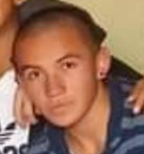
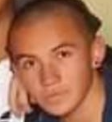
Add new animations and sounds

diff --git a/src/app/teams/teams.page.html b/src/app/teams/teams.page.html
@@ -1,11 +1,10 @@
-<ion-content >
-    <div class="lightining"></div>
+<ion-content>
   <ion-header>
     <ion-toolbar>
       <ion-buttons slot="start">
-        <ion-back-button defaultHref="/"></ion-back-button>
+        <ion-back-button defaultHref="/" class="text_white"></ion-back-button>
       </ion-buttons>
-      <ion-title class="ion-text-center">
+      <ion-title class="ion-text-center text_white">
         Equipos finales
       </ion-title>
       <ion-buttons slot="end" class="space">
@@ -13,18 +12,17 @@
       </ion-buttons>
     </ion-toolbar>
   </ion-header>
-
+  <div class="lightining"></div>
   <ion-grid class="ion-padding ion-text-center rain">
 
     <ion-row class="ion-padding team animation-left">
-      <ion-col size="12" class="ion-padding-bottom">
+      <ion-col size="12" class="ion-padding-bottom title">
         <span>Equipo 1 </span> &nbsp;
         <ion-icon name="add-circle-outline" *ngIf="difference > 0"></ion-icon>
         <ion-icon name="remove-circle-outline" *ngIf="difference < 0"></ion-icon>
       </ion-col>
 
-      <ion-col size="12" class="ion-margin-bottom active " *ngFor="let player of teamA"
-        >
+      <ion-col size="12" class="ion-margin-bottom active " *ngFor="let player of teamA">
         <ion-row>
           <ion-col>
             <img [src]="player.image">
@@ -70,17 +68,16 @@
     </ion-row>
     <ion-row>
       <ion-col size="12">
-        <img src="assets/images/vs.png"  class="vs">
+        <img src="assets/images/vs.png" class="vs">
       </ion-col>
     </ion-row>
     <ion-row class="ion-padding team  animation-right">
-      <ion-col size="12" class="ion-padding-bottom">
+      <ion-col size="12" class="ion-padding-bottom title">
         <span>Equipo 2 </span>&nbsp;
         <ion-icon name="add-circle-outline" *ngIf="difference < 0"></ion-icon>
         <ion-icon name="remove-circle-outline" *ngIf="difference > 0"></ion-icon>
       </ion-col>
-      <ion-col size="12" class="ion-margin-bottom active " *ngFor="let player of teamB"
-        >
+      <ion-col size="12" class="ion-margin-bottom active " *ngFor="let player of teamB">
         <ion-row>
           <ion-col>
             <img [src]="player.image">

diff --git a/src/app/home/home.page.ts b/src/app/home/home.page.ts
@@ -20,7 +20,7 @@ export class HomePage implements OnInit {
       name: 'Huesos',
       score: 1,
       selected: false,
-      image: 'assets/images/huesos.PNG',
+      image: 'assets/images/huesos 2.PNG',
     },
     {
       name: 'Daniel',
@@ -38,7 +38,7 @@ export class HomePage implements OnInit {
       name: 'Jose',
       score: 2.5,
       selected: false,
-      image: 'assets/images/jose.PNG',
+      image: 'assets/images/jose 2.PNG',
     },
     {
       name: 'Junior',
@@ -56,7 +56,7 @@ export class HomePage implements OnInit {
       name: 'Jhon',
       score: 2.5,
       selected: false,
-      image: 'assets/images/jhon.PNG',
+      image: 'assets/images/jhon 2.PNG',
     },
     {
       name: 'Alejandro',
@@ -68,7 +68,7 @@ export class HomePage implements OnInit {
       name: 'Sandra',
       score: 0.5,
       selected: false,
-      image: 'assets/images/sandra.PNG',
+      image: 'assets/images/sandra 2.PNG',
     },
     {
       name: 'Farid',

diff --git a/src/app/teams/teams.page.scss b/src/app/teams/teams.page.scss
@@ -1,11 +1,13 @@
 .team {
-  background-color: #000;
+  border: 1px solid #fff;
   color: #fff;
   span {
     width: 100%;
   }
 }
-
+.title {
+  padding-top: 0px;
+}
 .space {
   visibility: hidden;
 }
@@ -49,23 +51,20 @@
 }
 .vs {
   width: 80%;
-  animation-name: zoom-animation;
-  animation-duration: 1s;
+  animation: zoom-animation 2s infinite;
 }
 @keyframes zoom-animation {
   0% {
     transform: scale(0.8);
   }
+  50% {
+    transform: scale(1.1);
+  }
   100% {
-    transform: scale(1.3);
+    transform: scale(0.8);
   }
 }
 
-body {
-  margin: 0;
-  padding: 0;
-  background-size: cover;
-}
 .rain {
   height: 100vh;
   background-image: url("./../../assets/images/rain.png");
@@ -87,7 +86,7 @@ body {
   background-image: url("./../../assets/images/lightining.png");
   top: -100px;
   transform: rotate(180deg);
-  animation: lightining 4s linear infinite;
+  animation: lightining 1s linear infinite;
   opacity: 1;
 }
 @keyframes lightining {

diff --git a/src/global.scss b/src/global.scss
@@ -24,15 +24,24 @@
 @import "~@ionic/angular/css/text-alignment.css";
 @import "~@ionic/angular/css/text-transformation.css";
 @import "~@ionic/angular/css/flex-utils.css";
+body {
+  color: #fff;
+
+}
 .player {
   border: 1px solid var(--ion-color-danger-shade);
   border-radius: 5px;
   box-shadow: 0px 1px 2px 0px rgba(250, 11, 11, 0.75);
+  color: #fff;
 }
 .active {
   border: 1px solid var(--ion-color-success-shade);
   border-radius: 5px;
   box-shadow: 0px 1px 2px 0px rgb(3 183 58 / 75%);
+  color: #fff;
+}
+.text_white {
+  color: #fff;
 }
 .full_width {
   width: 100%;
@@ -43,4 +52,14 @@
 img {
   height: 50px;
   width: 50px;
+}
+ion-content{
+  color: #fff;
+  --ion-background-color:#000;
+}
+[name="star-sharp"] {
+  color: var(--ion-color-warning-tint);
+}
+[name="star-half-sharp"] {
+  color: var(--ion-color-warning-tint);
 }

diff --git a/src/app/home/home.page.html b/src/app/home/home.page.html
@@ -1,7 +1,7 @@
 <ion-content>
   <ion-header>
     <ion-toolbar>
-      <ion-title class="ion-text-center">
+      <ion-title class="ion-text-center text_white">
         <ion-icon name="shuffle-outline" (click)="sort()"></ion-icon>
         &nbsp; Seleccion de equipos &nbsp;
         <ion-icon name="checkmark-done-circle-outline" (click)="selectAll()"></ion-icon>

diff --git a/src/app/teams/teams.page.ts b/src/app/teams/teams.page.ts
@@ -21,9 +21,14 @@ export class TeamsPage implements OnInit {
         this.teamA = teamA;
         this.teamB = teamB;
         this.difference = difference;
+        this.reproducir();
       } else {
         this.router.navigate(['/home']);
       }
     }
+  }
+  reproducir(): void {
+    const audio = new Audio('assets/ray.mp3');
+    audio.play();
   }
 }

diff --git a/src/app/home/home.page.scss b/src/app/home/home.page.scss
@@ -4,9 +4,5 @@
 .single-player {
   display: inline-grid;
 }
-[name="star-sharp"] {
-  color: var(--ion-color-warning-tint);
-}
-[name="star-half-sharp"] {
-  color: var(--ion-color-warning-tint);
-}
+
+

diff --git a/src/theme/variables.scss b/src/theme/variables.scss
@@ -3,6 +3,7 @@
 
 /** Ionic CSS Variables **/
 :root {
+  --ion-background-color:#000;
   /** primary **/
   --ion-color-primary: #3880ff;
   --ion-color-primary-rgb: 56, 128, 255;
